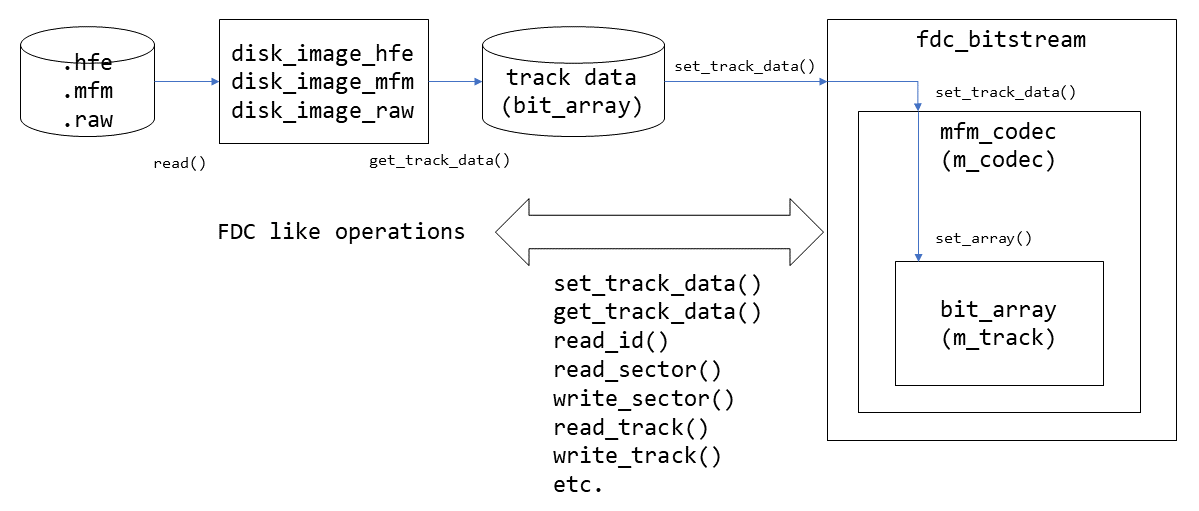
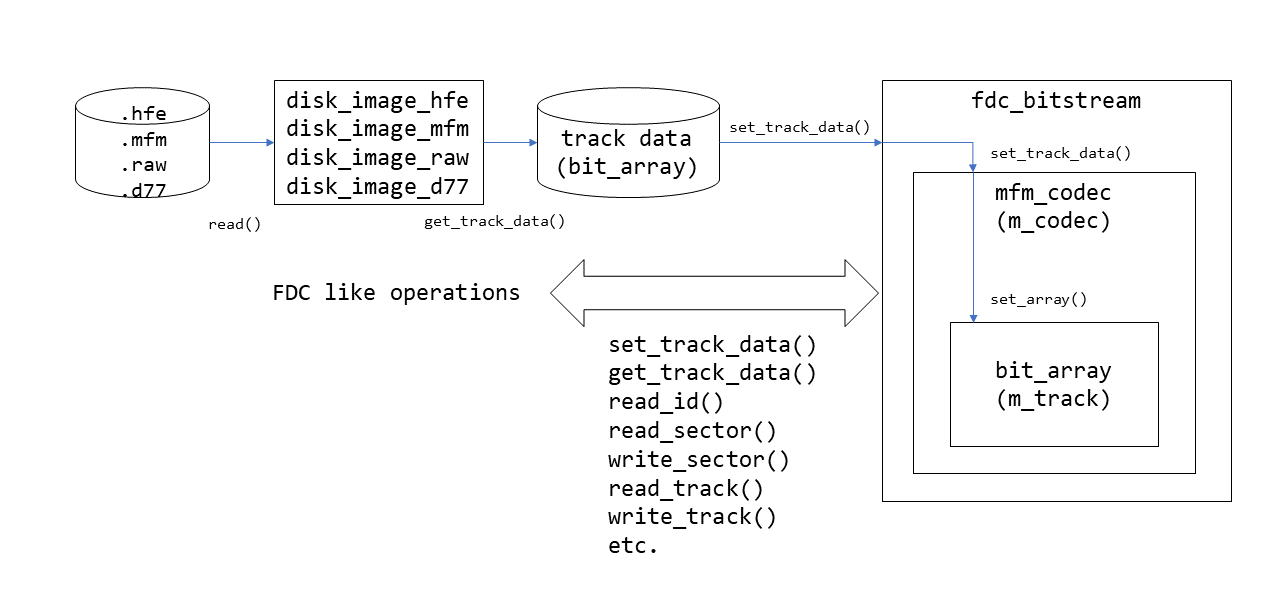
update readme

diff --git a/README.md b/README.md
@@ -28,7 +28,7 @@ The API document generated by Doxygen can be found at `./docs/html` directory.  
 
 ## How to integrate the fdc_bitstream library with your program
 1. Required files  
-- Source codes: All C++ source codes are stored in the `./fdc_bitstream` and `./fdc_common` directory. `fdc_bitstream` depends on `fdc_common`. 
+- Source codes: All C++ source codes are stored in the `./fdc_bitstream` and `./fdc_common` directories. `fdc_bitstream` depends on `fdc_common`. 
 - Header files: All C++ header files are stored in the `./includes` directory.
 2. Classes
 - Use the `fdc_bitstream` object to access the track data.  
@@ -40,7 +40,7 @@ The API document generated by Doxygen can be found at `./docs/html` directory.  
  = You can choose two modes when you access by the streaming functions. One is ring-buffer mode, and the other one is elastic buffer mode.  
  = In ring-buffer mode, you can access the bit data with the auto-increment pointer, and the pointer will go back to the top when it reaches the end of the buffer.    
  = In elastic buffer mode, the buffer will automatically extend as you write over the end of the buffer.  
- - Use one of the `disk_image_???` class to read the disk image file. Supported formats are `HFE`, `MFM`, and `RAW` (`MFM` and `RAW` are my original format. It is not compatible any other existing disk formats which shares the same file extension).  
+ - Use one of the `disk_image_???` class to read the disk image file. Supported formats are `HFE`, `MFM`, `RAW`, and `D77` (`MFM` and `RAW` are my original format. It is not compatible any other existing disk formats which shares the same file extension).  
 
 ![](./resources/class-diagram.png)
 
